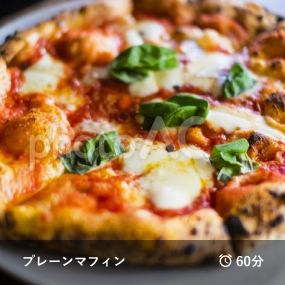
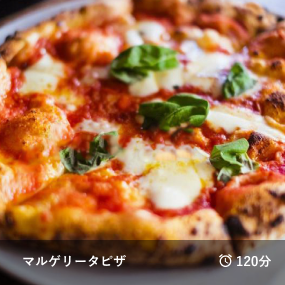
画像差し替え

Changed region(s): [[0.0561, 0.3649, 0.7298, 0.6175], [0.0842, 0.8982, 0.4491, 0.9544], [0.814, 0.8982, 0.9544, 0.9544]]

diff --git a/css/common.css b/css/common.css
@@ -21,9 +21,11 @@ a {
 }
 /* コンテナの書式 */
 .container {
-  max-width: 1090px;
+  max-width: 1130px;
   margin-left: auto;
   margin-right: auto;
+  padding-left: 20px;
+  padding-right: 20px;
 }
 
 /* ↓ヘッダー１の書式 */
@@ -89,19 +91,20 @@ header h1 {
 }
 
 /* ↓メインビジュアルの書式 */
-.visual {
+a.visual {
   position: relative;
+  display: block;
 }
 
 /* ↓メインビジュアルコピーの書式 */
 .visual_copy {
-  max-width: 530px;
+  width: 31%;
   color: #000;
   background-color: #ffffff;
   text-align: left;
   position: absolute;
-  left: 288px;
-  top: 250px;
+  left: 17.18%;
+  top: 34%;
   padding-left: 35px;
   padding-right: 35px;
   padding-top: 18px;
@@ -112,7 +115,7 @@ header h1 {
   font-family: Poppins;
   font-weight: 600;
   font-size: 35px;
-  padding-bottom: 8px;
+  padding-bottom: 6px;
 }
 
 .visual_copy section p {
@@ -161,9 +164,16 @@ main .food .food_main {
   flex-basis: 97.55%;
 }
 
+/* ↓記事とランキングの横並び */
+main .container {
+  width: 100%;
+  display: flex;
+  column-gap: 4.77%;
+}
+
 /* ↓メインディッシュの書式 */
 main .container .article .maindish {
-  width: 700px;
+  max-width: 715px;
   display: flex;
   align-items: center;
   padding: 0px 20px 28px 20px;
@@ -171,13 +181,13 @@ main .container .article .maindish {
 }
 
 .maindish .maindish_text {
-  width: 402px;
+  max-width: 402px;
   text-align: left;
 }
 
 .maindish .maindish_img {
-  width: 260px;
-  padding-left: 34px;
+  max-width: 260px;
+  padding-left: 4.75%;
 }
 
 .maindish .maindish_text h1 {
@@ -197,15 +207,9 @@ main .container .article .maindish {
   font-size: 16px;
 }
 
-/* ↓記事とランキングの横並び */
-main .container {
-  display: flex;
-  column-gap: 52px;
-}
-
 /* ↓サイドディッシュの書式 */
 main .container .article .sidedish {
-  width: 700px;
+  max-width: 715px;
   display: flex;
   align-items: center;
   padding: 30px 20px 28px 20px;
@@ -213,12 +217,12 @@ main .container .article .sidedish {
 }
 
 .sidedish .sidedish_text {
-  width: 402px;
+  max-width: 402px;
   text-align: left;
 }
 
 .sidedish .sidedish_img {
-  width: 260px;
+  max-width: 260px;
   padding-left: 34px;
 }
 
@@ -241,19 +245,19 @@ main .container .article .sidedish {
 
 /* ↓デザートの書式 */
 main .container .article .dessert {
-  width: 700px;
+  max-width: 715px;
   display: flex;
   align-items: center;
   padding: 30px 20px 28px 20px;
 }
 
 .dessert .dessert_text {
-  width: 402px;
+  max-width: 402px;
   text-align: left;
 }
 
 .dessert .dessert_img {
-  width: 260px;
+  max-width: 260px;
   padding-left: 34px;
 }
 
@@ -276,7 +280,7 @@ main .container .article .dessert {
 
 /* ランキングの書式 */
 main .container .ranking {
-  width: 400px;
+  max-width: 400px;
 }
 
 /* ランキング画像とテキストの横並び */
@@ -306,20 +310,20 @@ main .container .ranking {
 
 /* ランキング画像書式 */
 article section a .ranking_img {
-  width: 129px;
+  max-width: 129px;
   padding-right: 16px;
 }
 
 /* ランキング文章書式 */
 article section a .ranking_text {
-  width: 200px;
+  max-width: 200px;
   font-size: 16px;
   text-align: left;
 }
 
 /* ランキングカテゴリ書式 */
 section a .ranking_text p:last-child {
-  width: 140px;
+  max-width: 140px;
   font-size: 14px;
   text-align: center;
   padding: 3px 3px 3px 3px;
@@ -331,10 +335,11 @@ section a .ranking_text p:last-child {
 main .news h2.news {
   font-family: Poppins;
   font-size: 35px;
+  margin-top: 13px;
   margin-bottom: 16px;
 }
 
-/* ニュース本文全体 */
+/* ニュース全体 */
 main .news ul {
   max-width: 1080px;
   text-align: left;
@@ -371,11 +376,78 @@ footer {
 
 footer p:first-child {
   color: #ffffff;
-  padding: 20px 0px 16px 0px;
+  padding: 20px 0px 0px 0px;
 }
 
 footer .icon {
-  display: flex;
-  column-gap: 9.5px;
-  justify-content: center;
+  max-width: 100px;
+  margin-left: auto;
+  margin-right: auto;
+  padding-bottom: 20px;
+}
+
+/* 1600px以下 */
+@media (max-width: 1600px) {
+  .visual_copy {
+    width: 38%;
+    position: absolute;
+    left: 15.18%;
+    padding-left: 30px;
+    padding-right: 30px;
+    padding-top: 14px;
+    padding-bottom: 25px;
+  }
+  .visual_copy section h1 {
+    font-size: 34px;
+    padding-bottom: 3px;
+  }
+}
+
+/* 1400px以下 */
+@media (max-width: 1400px) {
+  .visual_copy {
+    width: 40%;
+    position: absolute;
+    left: 10.18%;
+    top: 23%;
+    padding-left: 30px;
+    padding-right: 30px;
+    padding-top: 14px;
+    padding-bottom: 25px;
+  }
+  .visual_copy section h1 {
+    font-size: 34px;
+    padding-bottom: 3px;
+  }
+}
+
+/* 1200px以下 */
+@media (max-width: 1200px) {
+  a.visual {
+    position: unset;
+  }
+  /* ↓メインビジュアルコピーの書式 */
+  .visual_copy {
+    width: 100%;
+    color: #000;
+    background-color: #ffffff;
+    position: unset;
+    padding-left: 35px;
+    padding-right: 35px;
+    padding-top: 16px;
+    padding-bottom: 14px;
+  }
+
+  .visual_copy section h1 {
+    font-size: 30px;
+    padding-bottom: 3px;
+  }
+  .visual_copy section p {
+    display: inline;
+    font-size: 15px;
+  }
+  .ranking article h1 span {
+    display: block;
+    padding-top: 10px;
+  }
 }

diff --git a/index.html b/index.html
@@ -39,8 +39,8 @@
                 <p><img src="img/kensaku.png" alt="検索窓"></p>
             </div>
         </div>
-        <p class="visual"><a href="#"><img src="img/visual.png" alt="トップ料理画像"></a></p>
-        <a href="#">
+        <a class="visual" href="#">
+            <p><img src="img/visual.png" alt="トップ料理画像"></p>
             <div class="visual_copy">
                 <section>
                     <h1>Dinner ideas</h1>
@@ -54,9 +54,9 @@
         <main>
             <ul class="food">
                 <li class="food_1">
-                    <div class="a"><a href="#"><img src="img/vage.png" alt="野菜"></a></div>
+                    <div class="a"><a href="#"><img src="img/steak.png" alt="牛肉のステーキ"></a></div>
                     <div class="b"><a href="#"><img src="img/gratan.png" alt="グラタン"></a></div>
-                    <div class="c"><a href="#"><img src="img/pizza.png" alt="ピザ"></a></div>
+                    <div class="c"><a href="#"><img src="img/pizza.png" alt="マルゲリータピザ"></a></div>
                     <div class="d"><a href="#"><img src="img/aquapazza.png" alt="アクアパッツァ"></a></div>
                 </li>
                 <li class="food_2">
@@ -71,7 +71,6 @@
             </ul>
 
             <div class="container">
-
 
                 <div class="article">
 
@@ -173,9 +172,7 @@
                 </small>
             </p>
             <div class="icon">
-                <p><img src="img/insta.svg" alt="インスタグラムアイコン"></p>
-                <p><img src="img/facebook.svg" alt="フェイスブック"></p>
-                <p><img src="img/twitter.svg" alt="ツイッターアイコン"></p>
+                <p><img src="img/snslogo.png" alt="SNSアイコン"></p>
             </div>
         </footer>
     </div>
